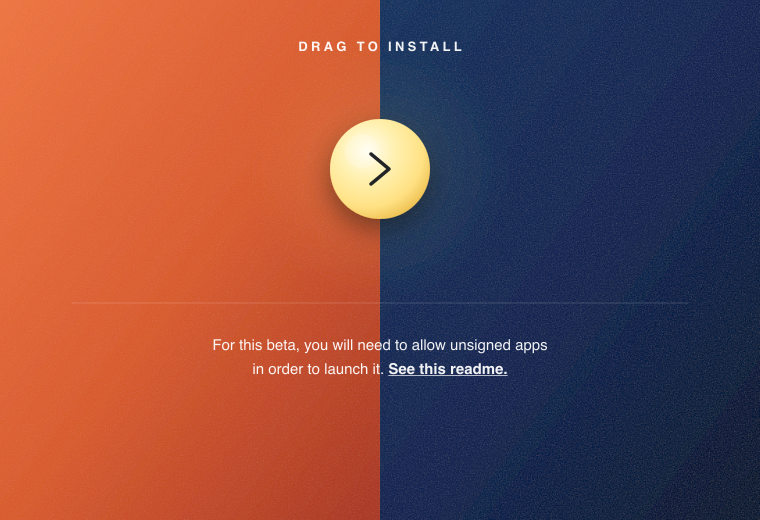
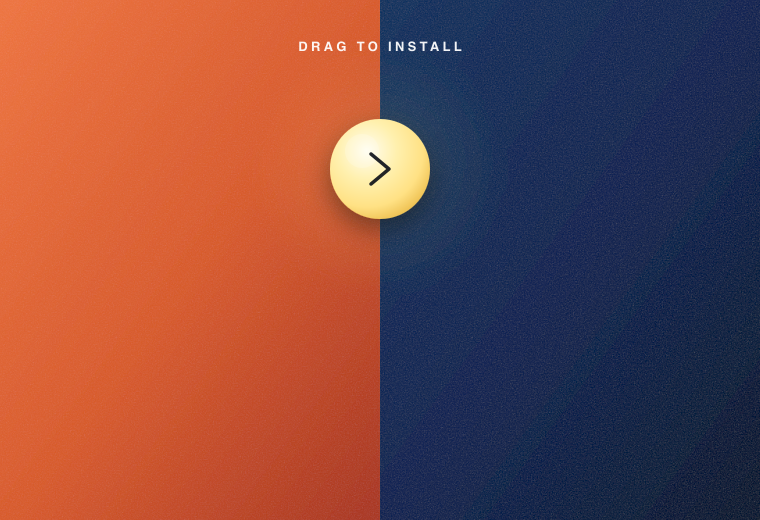
Remove obsolete launch warning and README from macOS DMG (#184)
* Remove obsolete launch warning and README from macOS DMG

* Record refreshed notarized DMG artifact and receipt

Changed region(s): [[0.2724, 0.6462, 0.7263, 0.7385]]

diff --git a/scripts/dmg/build.py b/scripts/dmg/build.py
@@ -38,10 +38,7 @@ def main():
             "format": "UDZO",
             "create_hook": verify_staged_app,
             "filesystem": "HFS+",
-            "files": [
-                (str(app), "LightTable.app"),
-                str(assets / "READ ME FIRST.txt"),
-            ],
+            "files": [(str(app), "LightTable.app")],
             "symlinks": {"Applications": "/Applications"},
             "background": str(assets / "background.png"),
             "window_rect": ((100, 100), (760, 520)),
@@ -60,11 +57,9 @@ def main():
             "show_icon_preview": False,
             # Setting FinderInfo on the app invalidates its strict code seal.
             # Finder already hides the standard .app extension.
-            "hide_extensions": ["READ ME FIRST.txt"],
             "icon_locations": {
                 "LightTable.app": (176, 169),
                 "Applications": (584, 169),
-                "READ ME FIRST.txt": (380, 444),
             },
         },
     )

diff --git a/scripts/dmg/README.md b/scripts/dmg/README.md
@@ -6,16 +6,14 @@ It requires macOS and `uv`. The output must not already exist.
 `package-release.sh` uses the same builder for its DMG.
 
 The 760 × 520 background is the approved orange/blue design, with a black
-arrow over the yellow ball. The app, Applications shortcut, and README are
-real Finder items. The underlined background text points to the README below;
-the text itself is part of the image. Finder uses a common 112-point icon size
-so the README and its label fit beneath the beta notice.
+arrow over the yellow ball. The app and Applications shortcut are real Finder
+items, using a common 112-point icon size. The installer has no README item or
+unsigned-app launch warning.
 
 `assets/background.svg` is the editable original; `assets/background.png` is
 its opaque PNG export. Render the SVG with Sharp, flatten onto `#072250`,
 remove alpha, and export PNG when updating it. Keep the 760 × 520 dimensions.
-The current artwork and README describe the unsigned beta; revise that copy
-before distributing an Apple Developer ID signed release.
+Use the signed, notarized distribution app when preparing a public installer.
 
 The pinned [dmgbuild](https://dmgbuild.readthedocs.io/en/latest/settings.html)
 tool writes the background alias, icon positions, and window preferences
